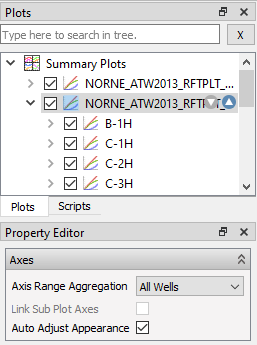
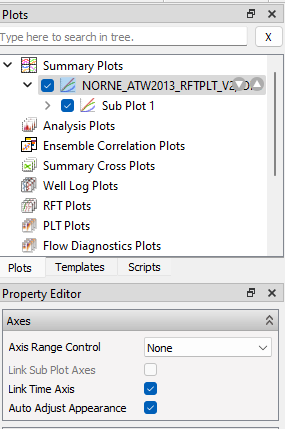
Updated ensemble summary plotting

diff --git a/tutorials/summary-ensemble/summary-ensemble.md b/tutorials/summary-ensemble/summary-ensemble.md
@@ -14,12 +14,6 @@ A prompt will appear; select the "..." (as illustrated in the above picture) and
 
 The Reek ensemble we are working with contains one base prediction, iteration 1, iteration 2, and "pred_op6". To import the base prediction ("base_pred") we add the following syntax to the file path: "\*/base_pred/\*", the astrix symbol ("\*") means that it will match any number of any character. As the above illustration shows, press the "Find" it will search for all the ".SMSPEC" files associated with the "base_pred".
 
-![Image](Resources/Pictures/select_ensemble.png)
-
-Select realization 0 through 9, as illustrated in the above screenshot.
-
-A new prompt will appear; asking you to name the ensemble. We will call this "Base Prediction". Then press "OK".
-
 ## Step 2. Creating an Ensemble Plot for Well OP_5
 
 A plot will appear showing the "Base prediction, Oil Production Total". We want to replace this curve with the curve showing the cumulative oil production of "OP_5". 

diff --git a/tutorials/summary-plot/summary-plot.md b/tutorials/summary-plot/summary-plot.md
@@ -38,7 +38,7 @@ to import summary case, navigate to directory *model-data/norne*, select *NORNE_
 ![Image](./Resources/PlotsAxesAutoAdjust.png)
 
 1. Click the plot in **Plots** window
-2. In **Property Editor**, set *Axis Range Aggregation* to *All Wells* to harmonize axes across all wells
+2. In **Property Editor**, set *Axis Range Control* to *All Wells* to harmonize axes across all wells
 3. Check *Auto Adjust Appearance* to have ResInsight to automatically adjust the plot for best appearance 
 
 ## Resulting summary plot
